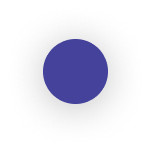
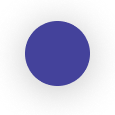
Fixed UI of home page

Changed region(s): [[0.2087, 0.1826, 0.7826, 0.7565]]

diff --git a/lib/core/ui/mainViewStatefulWidget.dart b/lib/core/ui/mainViewStatefulWidget.dart
@@ -45,69 +45,67 @@ class _HomePageState extends State<HomePage> {
                   ),
                 ),
               ),
-              Row(
-                children: <Widget>[
-                  Container(
-                      child: GestureDetector(
-                        onTap: () {
+              Padding(
+                padding: const EdgeInsets.only(top: 20),
+                child: Row(
+                  mainAxisAlignment: MainAxisAlignment.center,
+                  children: <Widget>[
+                    Container(
+                        child: GestureDetector(
+                          onTap: () {
 
-                        },
-                        child: Stack(
-                          children: <Widget>[
-                            Image(
-                                image: AssetImage("assets/greenCircle.png")
-                            ),
-                            Padding(
-                              padding: const EdgeInsets.only(left: 65, top: 60),
-                              child: Image(
+                          },
+                          child: Stack(
+                            alignment: Alignment.center,
+                            children: <Widget>[
+                              Image(
+                                  image: AssetImage("assets/greenCircle.png")
+                              ),
+                              Image(
                                   image: AssetImage("assets/phone.png")
                               ),
-                            ),
-                          ],
-                        ),
-                      )
-                  ),
-                  Container(
-                      child: GestureDetector(
-                        onTap: () {
+                            ],
+                          ),
+                        )
+                    ),
+                    Container(
+                        child: GestureDetector(
+                          onTap: () {
 
-                        },
-                        child: Stack(
-                          children: <Widget>[
-                            Image(
-                                image: AssetImage("assets/blueCircle.png")
-                            ),
-                            Padding(
-                              padding: const EdgeInsets.only(left: 65, top: 60),
-                              child: Image(
+                          },
+                          child: Stack(
+                            alignment: Alignment.center,
+                            children: <Widget>[
+                              Image(
+                                  image: AssetImage("assets/blueCircle.png")
+                              ),
+                              Image(
                                   image: AssetImage("assets/facebook.png")
                               ),
-                            ),
-                          ],
-                        ),
-                      )
-                  ),
-                  Container(
-                      child: GestureDetector(
-                        onTap: () {
+                            ],
+                          ),
+                        )
+                    ),
+                    Container(
+                        child: GestureDetector(
+                          onTap: () {
 
-                        },
-                        child: Stack(
-                          children: <Widget>[
-                            Image(
-                                image: AssetImage("assets/redCircle.png")
-                            ),
-                            Padding(
-                              padding: const EdgeInsets.only(left: 65, top: 60),
-                              child: Image(
+                          },
+                          child: Stack(
+                            alignment: Alignment.center,
+                            children: <Widget>[
+                              Image(
+                                  image: AssetImage("assets/redCircle.png")
+                              ),
+                              Image(
                                   image: AssetImage("assets/google.png")
                               ),
-                            ),
-                          ],
-                        ),
-                      )
-                  ),
-                ],
+                            ],
+                          ),
+                        )
+                    ),
+                  ],
+                ),
               )
             ],
           ),
